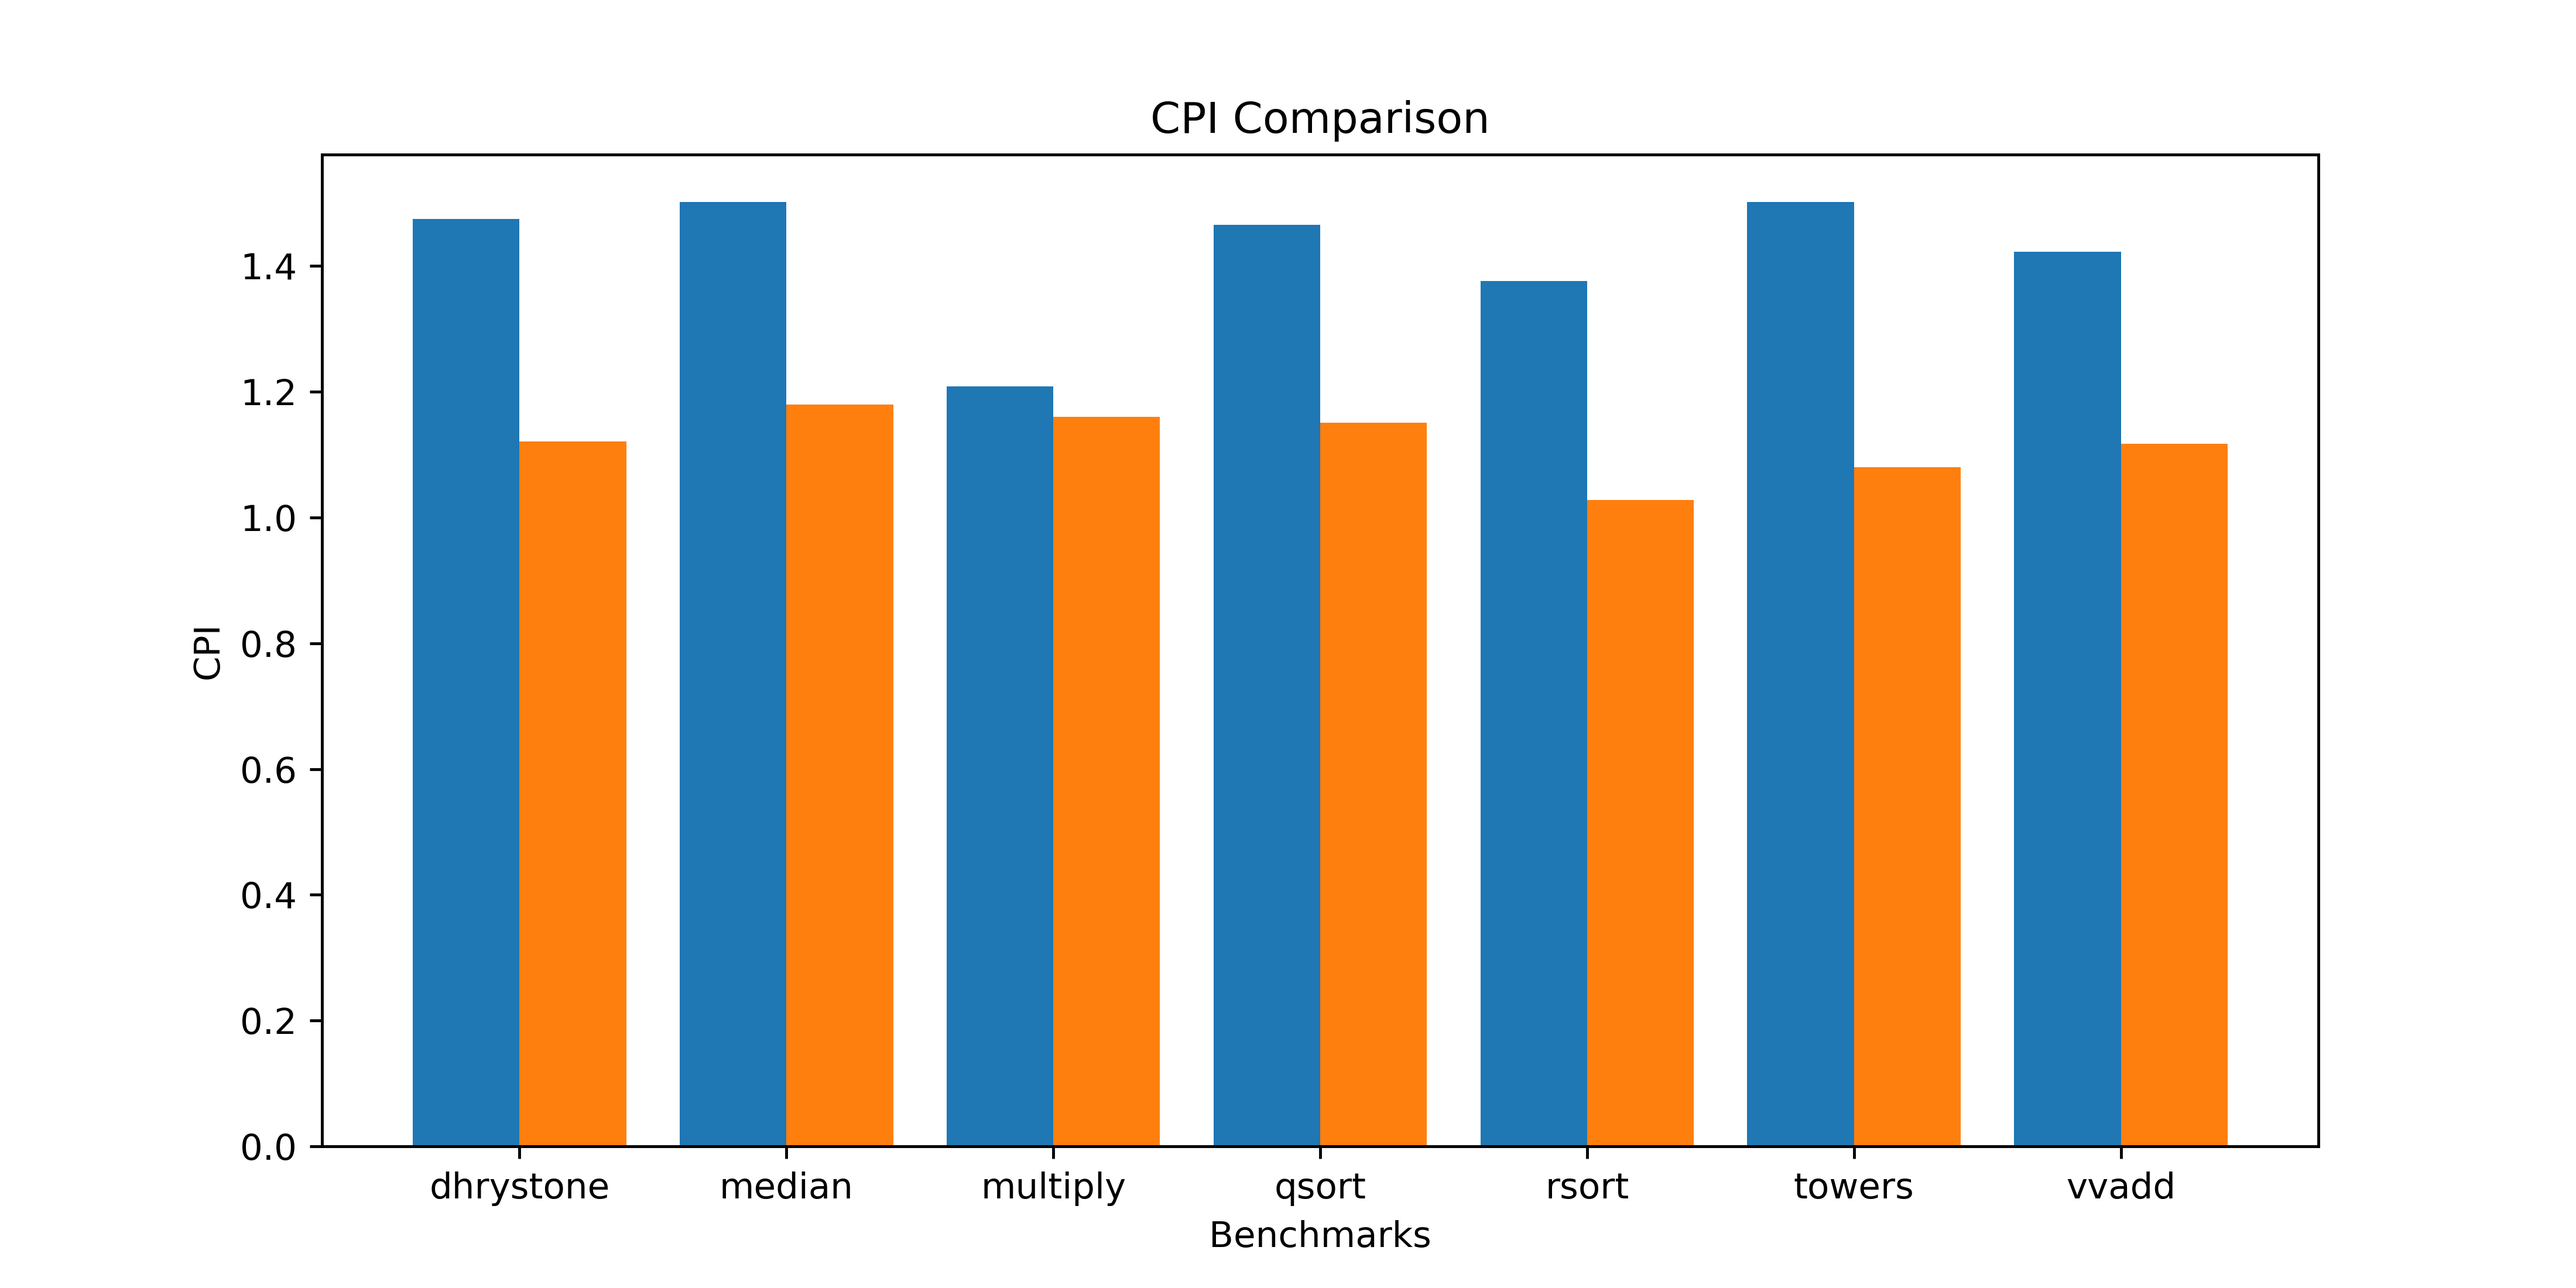
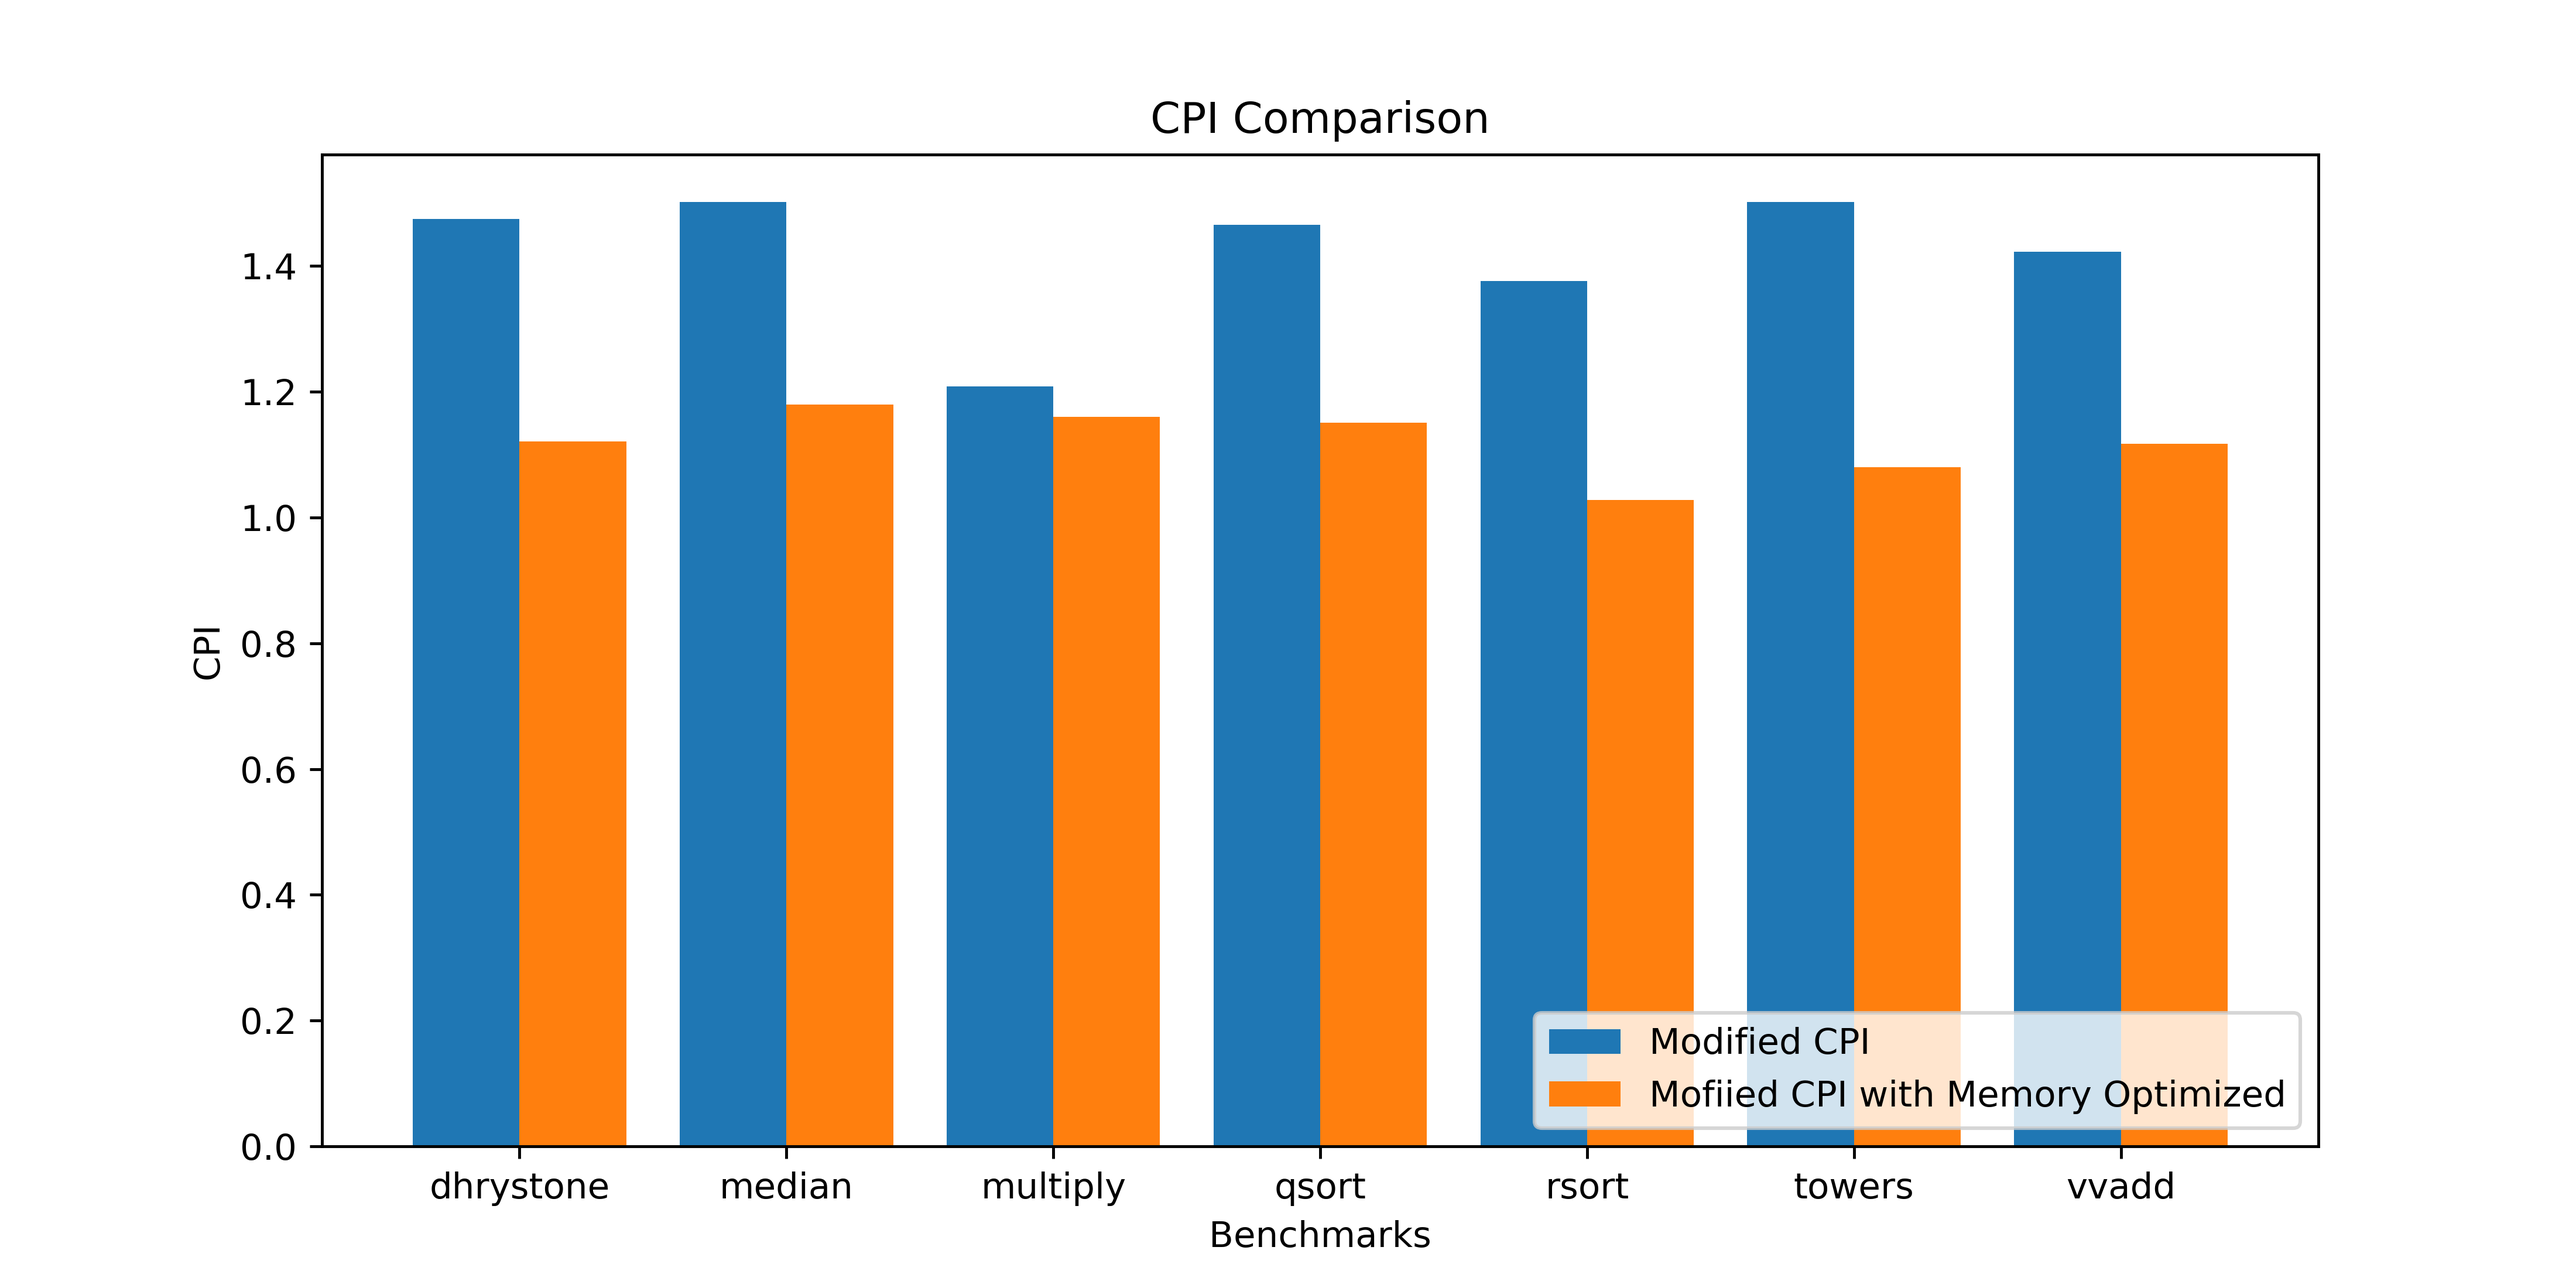
fix legend

Changed region(s): [[0.5916, 0.7727, 0.903, 0.8964]]

diff --git a/submission.py b/submission.py
@@ -78,6 +78,6 @@ plt.title("CPI Comparison")
 plt.xticks(X_axis, benchmarks)
 plt.xlabel("Benchmarks")
 plt.ylabel("CPI")
+plt.legend(loc='lower right')
 plt.savefig("figures/3_5_3.png")
-plt.legend()
 plt.clf()
